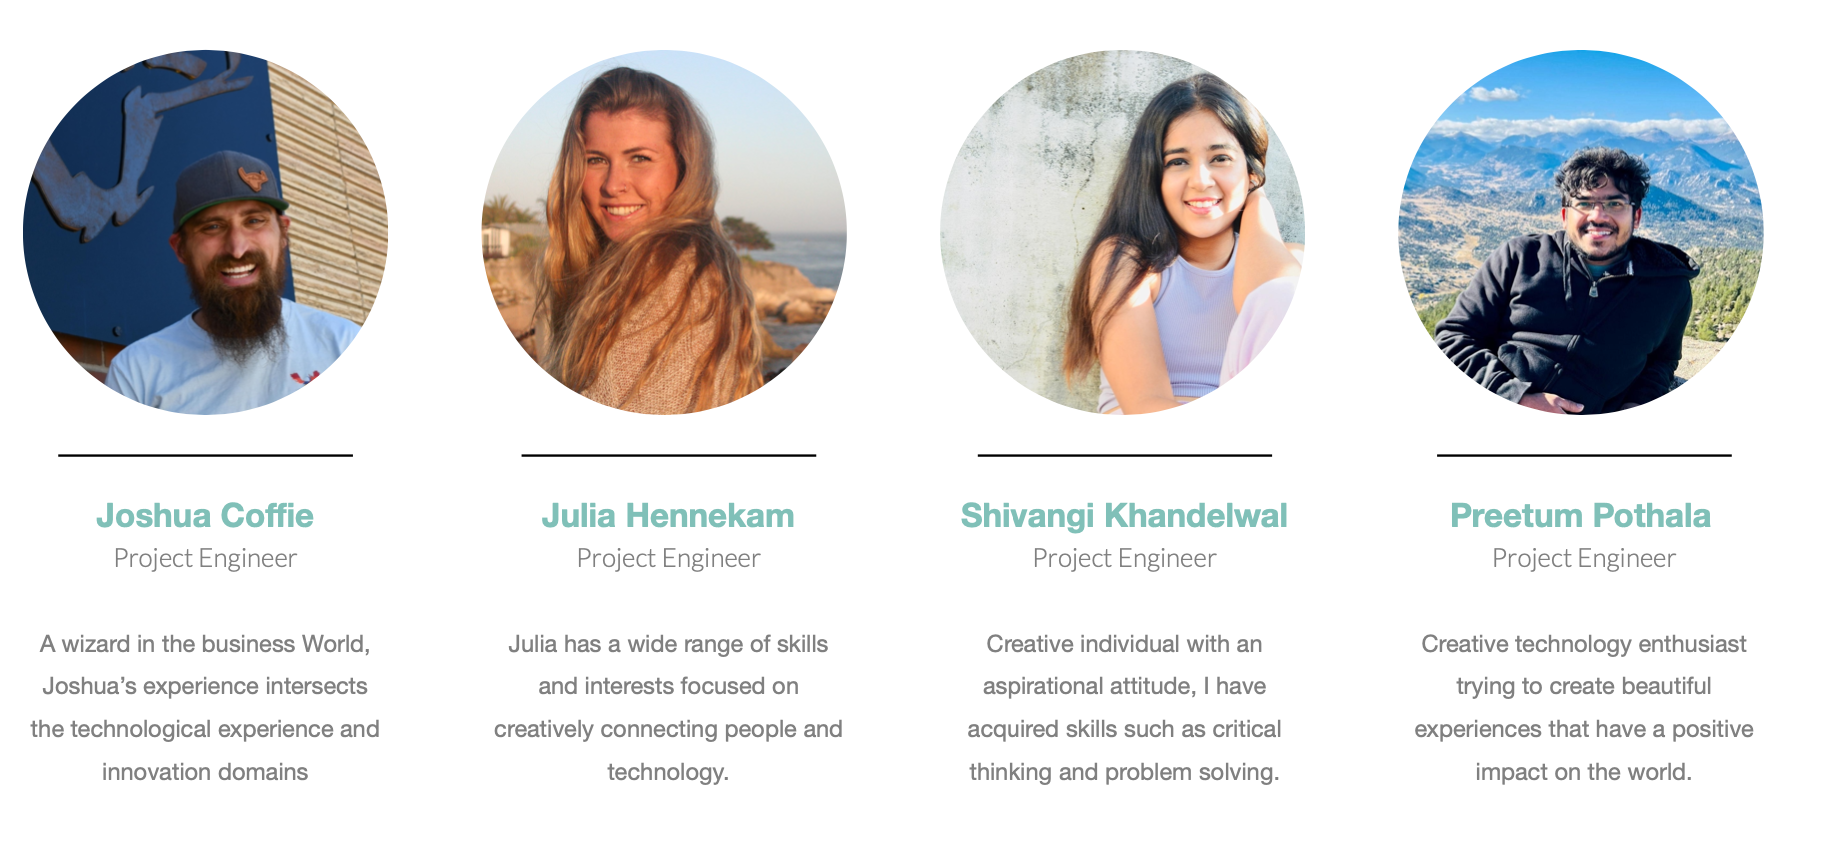
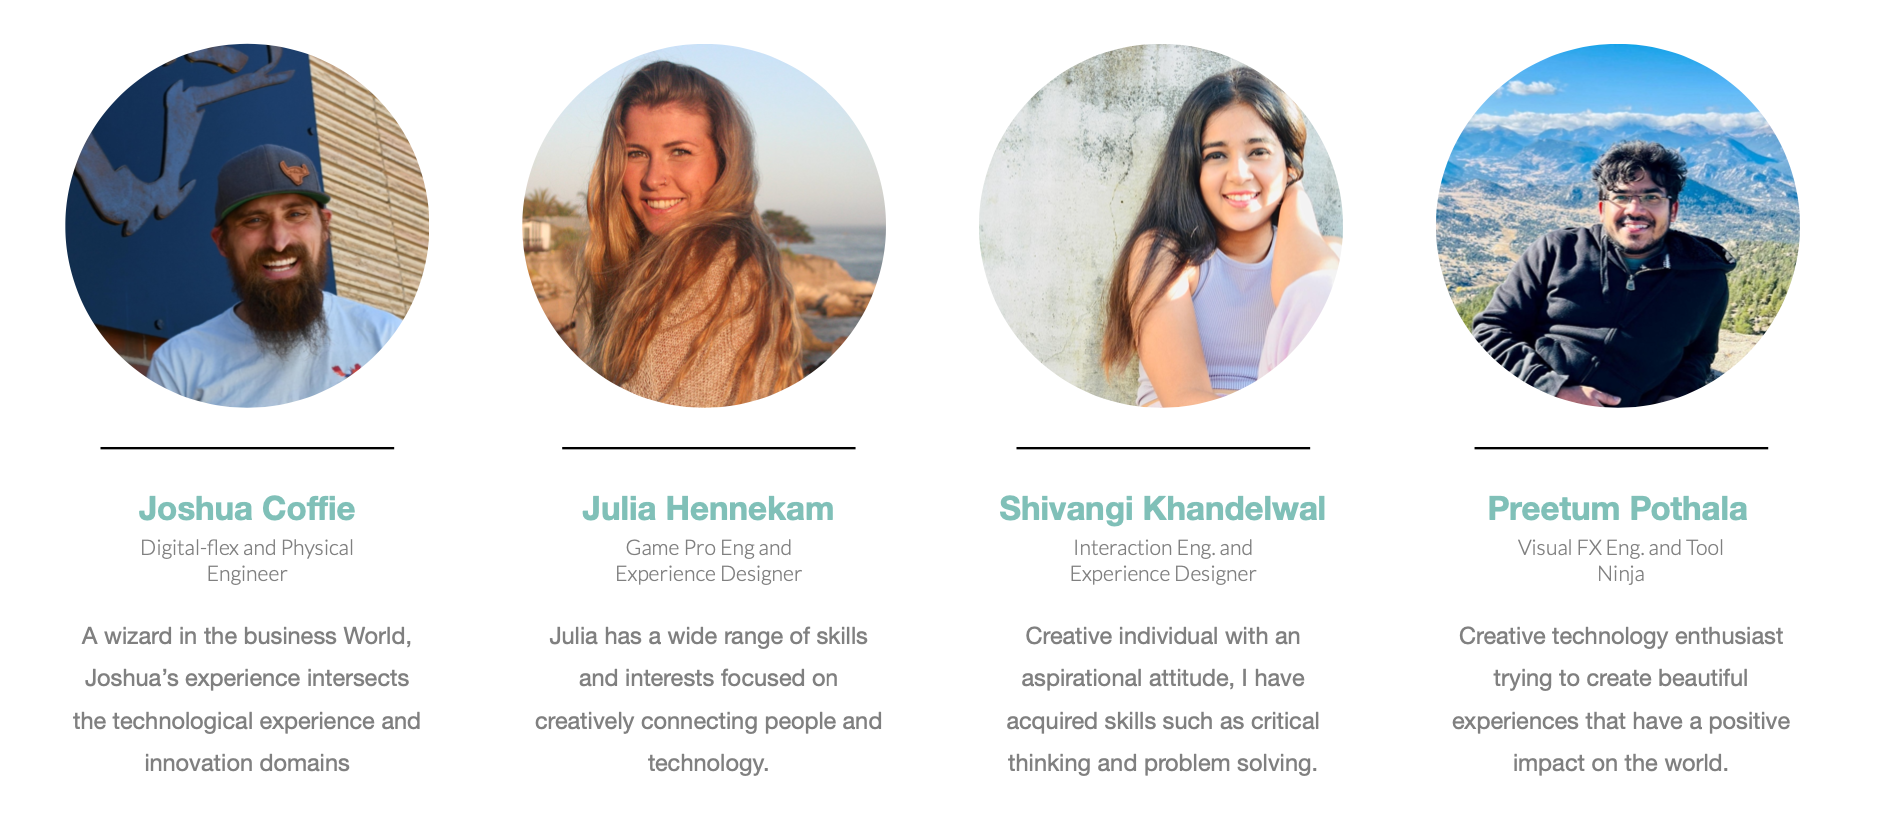
updating page

diff --git a/_projects/2022-05-02-small-island-nation.md b/_projects/2022-05-02-small-island-nation.md
@@ -6,7 +6,7 @@ description: Designing and building an interactive and impactful exhibit
 featured_image: '/images/team.jpg'
 ---
 
-## Introduction to our Project
+## Introduction to our Project 
 
 Text here and images from the deck.
 
@@ -15,8 +15,6 @@ Text here and images from the deck.
 ## Let's meet the team!
 
  <p align="center"><img src="/images/teamBio.jpg"></p>
-
- Team biographies need to be added here.  
 
 ---
 
@@ -84,6 +82,7 @@ Text and videos of the walkthrough.
 <p align="center"><iframe width="560" height="315" src="https://youtu.be/7smKn1JFwfw" title="YouTube video player" frameborder="0" allow="accelerometer; autoplay; clipboard-write; encrypted-media; gyroscope; picture-in-picture" allowfullscreen></iframe></p>
 
 <p align="center"><iframe width="560" height="315" src="https://youtu.be/4A5fm4XZ2uM" title="YouTube video player" frameborder="0" allow="accelerometer; autoplay; clipboard-write; encrypted-media; gyroscope; picture-in-picture" allowfullscreen></iframe></p>
+
 ---
 
 ## Lessons learned
